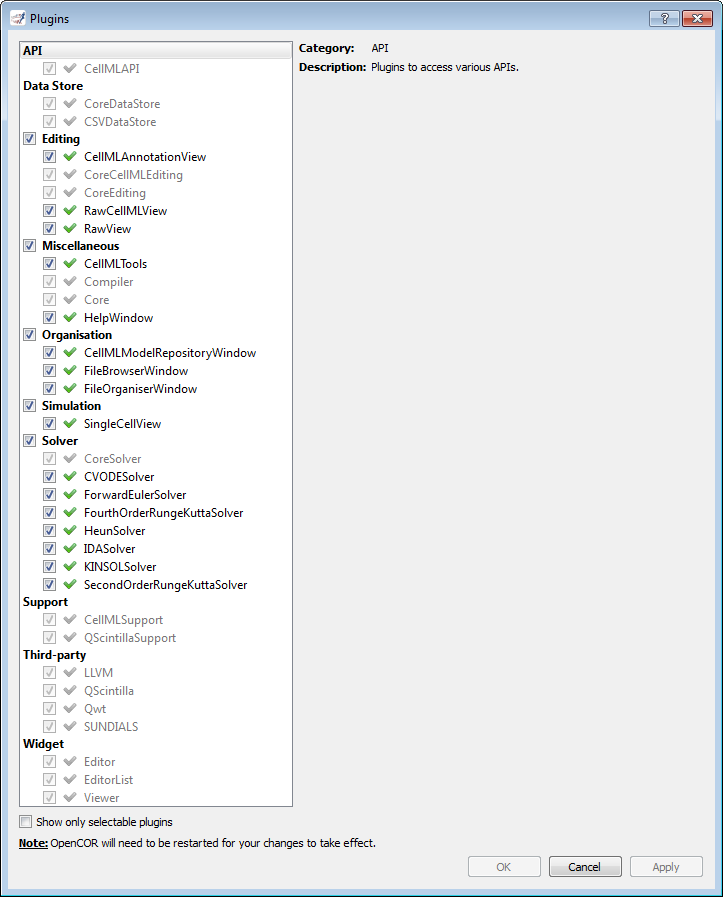
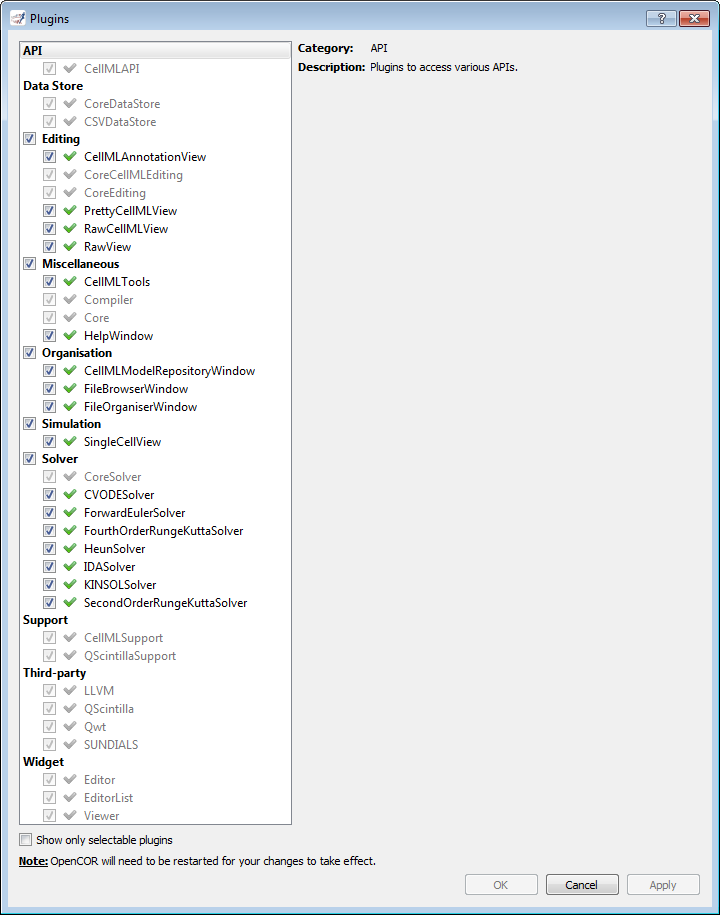
Some work on the pretty CellML view for a CellML file (#17) [ci skip].

diff --git a/doc/user/plugins/editing/PrettyCellMLView.html b/doc/user/plugins/editing/PrettyCellMLView.html
@@ -20,16 +20,36 @@
         </script>
 
         <p>
-            The PrettyCellMLView plugin can be used to edit <a href="http://www.cellml.org/">CellML</a> files using a text editor and a pretty CellML format. The format is compatible with the one used in <a href="http://cor.physiol.ox.ac.uk/">COR</a>, although it has been expanded to support:
+            The PrettyCellMLView plugin can be used to edit <a href="http://www.cellml.org/">CellML</a> files using a text editor and a pretty CellML format. Besides using a specific format, the text editor behaves the same way as the text editor in the <a href="RawView.html">Raw</a> and <a href="RawCellMLView.html">RawCellML</a> views. Then, like in the <a href="RawCellMLView.html">RawCellML</a> view, there is a panel above the text editor, which is used to visualise mathematical equations in real-time, and another below to list all the issues with the CellML file, if any.
+        </p>
+
+        <p class="nomargins note">
+            the PrettyCellMLView plugin is still very much work in progress. As a result, to open a CellML file will 'only' result in its conversion to the pretty CellML format, together with syntax highlighting. Editing is possible, but changes cannot be serialised back. The panels above and below the editor do not work either.
+        </p>
+
+        <div class="section">
+            Compatibility
+        </div>
+
+        <p>
+            People who are already familiar with <a href="http://cor.physiol.ox.ac.uk/">COR</a> will find that the same format is used in both cases, although the pretty CellML format has been extended to support:
         </p>
 
         <ul>
             <li>Comments (both <code>// XXX</code> and <code>/* XXX */</code>).</li>
-            <li>The <code>import</code> element (i.e. CellML 1.1 compatibility).</li>
-            <li>The <code>cmeta:id</code> attribute on all CellML elements (i.e. CellML annotation support).</li>
-            <li><a href="http://www.w3.org/Math/">MathML</a>: the <code>degree</code> qualifier for the <code>diff</code> element, as well as the <code>notanumber</code> and <code>infinity</code> constants.</li>
+            <li>The <code>import</code> element (i.e. support for CellML 1.1).</li>
+            <li>The <code>cmeta:id</code> attribute on all CellML elements (i.e. support for CellML annotation).</li>
+            <li><a href="http://www.w3.org/Math/">MathML</a>: the <code>degree</code> qualifier for the <code>diff</code> element (i.e. not limited to first derivatives), as well as the <code>notanumber</code> and <code>infinity</code> constants.</li>
             <li>An unlimited number of group types (in <a href="http://cor.physiol.ox.ac.uk/">COR</a>, a group can only specify one <code>encapsulation</code> and/or one <code>containment</code> type).</li>
         </ul>
+
+        <div class="section">
+            Format
+        </div>
+
+        <p>
+            To be done...
+        </p>
 
         <div class="section">
             Comments

diff --git a/doc/user/plugins/index.html b/doc/user/plugins/index.html
@@ -27,7 +27,7 @@
         </p>
 
         <p class="center">
-            <a class="noHover" href="../res/image.html?image=../plugins/res/pics/screenshot01.png&caption=Plugins window"><img class="link" src="res/pics/screenshot01Small.png" width=360 height=420 alt="Plugins window"></a>
+            <a class="noHover" href="../res/image.html?image=../plugins/res/pics/screenshot01.png&caption=Plugins window"><img class="link" src="res/pics/screenshot01Small.png" width=360 height=458 alt="Plugins window"></a>
         </p>
 
         <p>

diff --git a/doc/user/plugins/editing/RawCellMLView.html b/doc/user/plugins/editing/RawCellMLView.html
@@ -27,7 +27,7 @@
         </p>
 
         <p>
-            Besides using syntax highlighting, the text editor behaves in exactly the same way as the text editor in the <a href="RawView.html">Raw</a> view.
+            Besides using syntax highlighting, the text editor behaves the same way as the text editor in the <a href="RawView.html">Raw</a> view.
         </p>
 
         <p>
